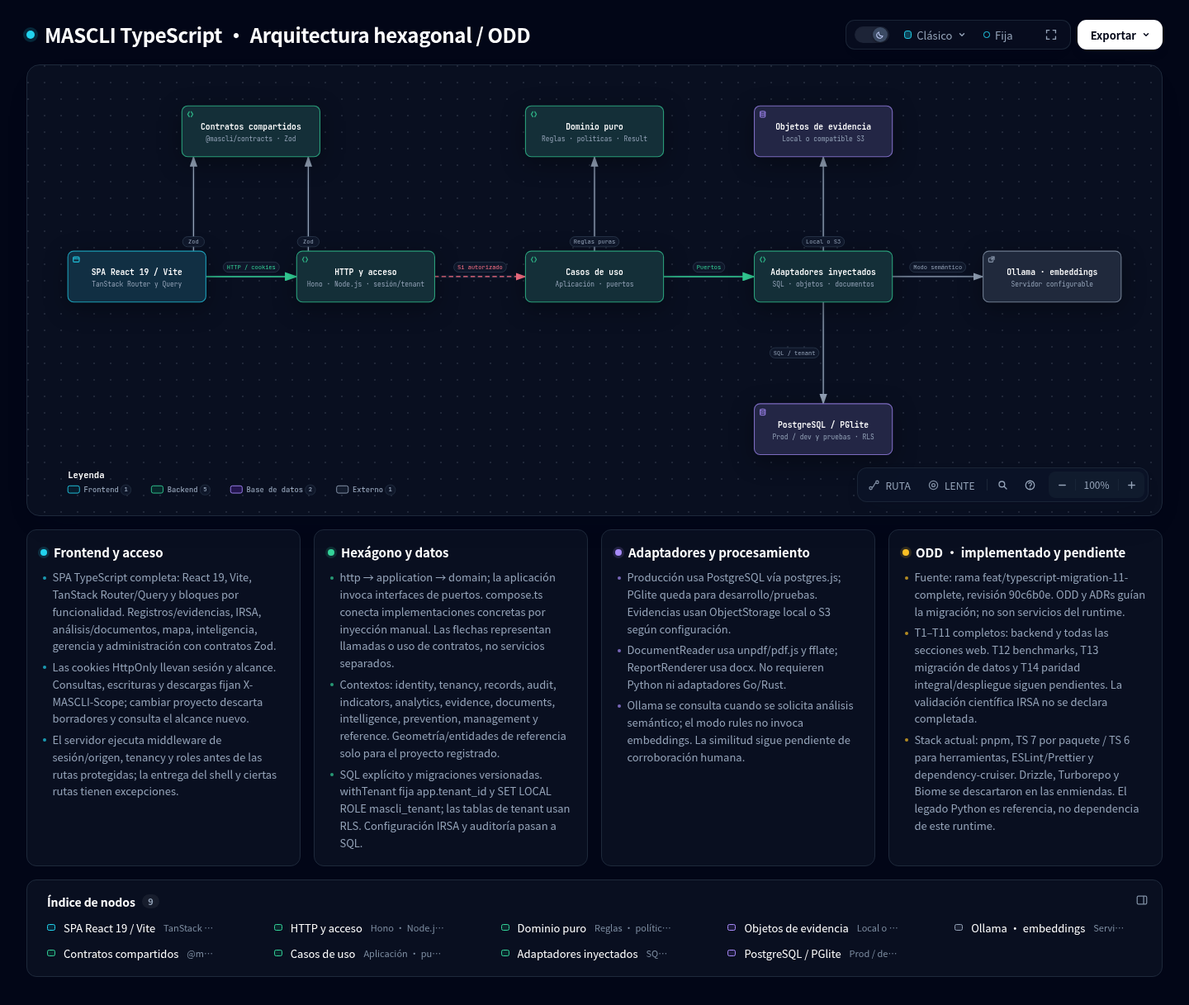
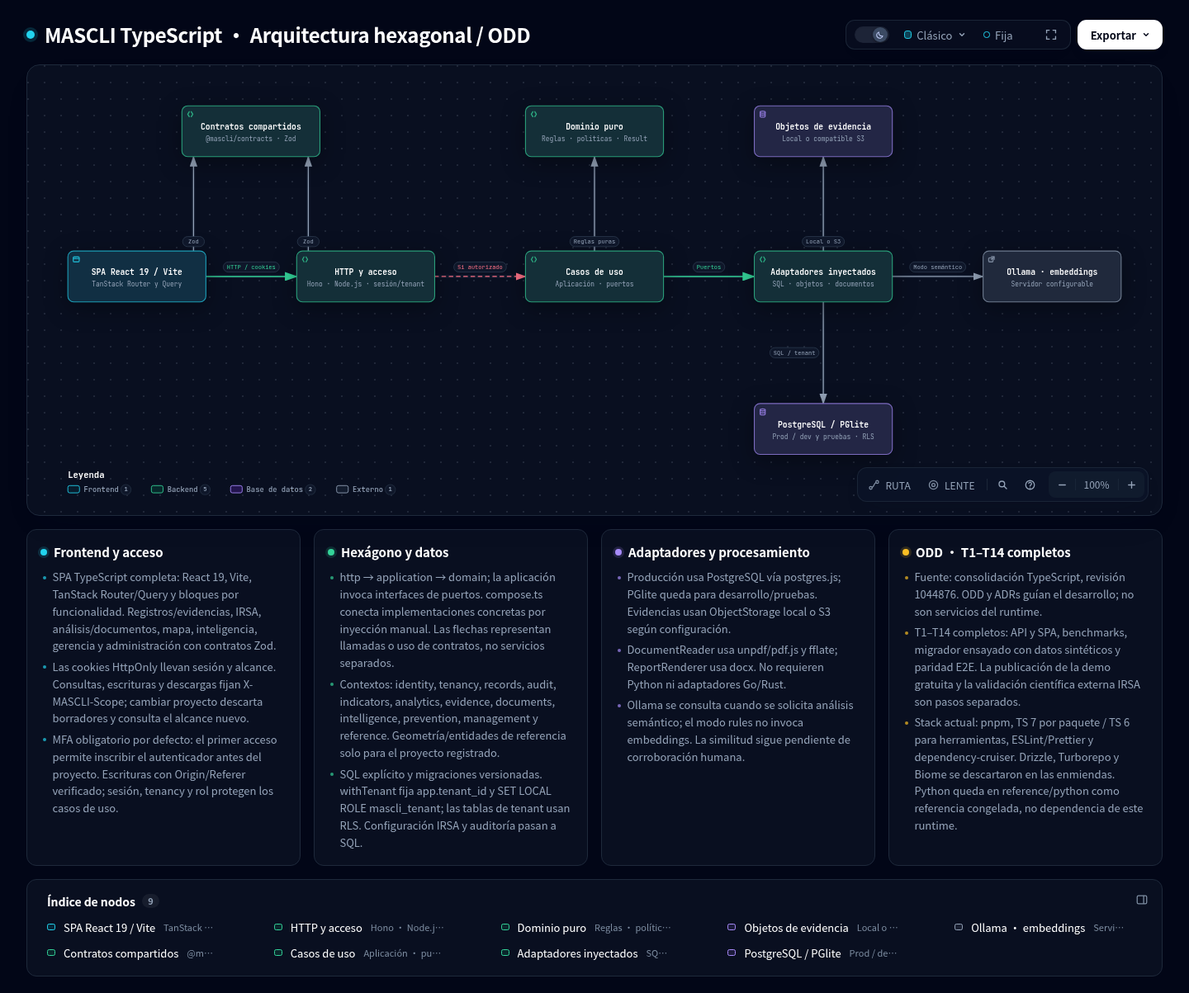
docs: refresh Archify for integrated T14 and strengthen MFA login evidence

diff --git a/docs/diagrams/arquitectura.html b/docs/diagrams/arquitectura.html
@@ -5154,7 +5154,7 @@ OTHER DEALINGS IN THE FONT SOFTWARE.
       </div>
     </div>
 
-    <script id="archify-source-evidence-data" type="application/json">{"schemaVersion":1,"verified":true,"repository":{"url":"https://github.com/Dreamcoder08/mascli","revision":"90c6b0e6b547eb837e70dcf01d9998ae86707d4c","shortRevision":"90c6b0e","label":"Dreamcoder08/mascli","href":"https://github.com/Dreamcoder08/mascli/tree/90c6b0e6b547eb837e70dcf01d9998ae86707d4c"},"referenceCount":26,"nodes":{"web":[{"path":"apps/web/src/app/router.tsx","line":264,"endLine":292,"label":"Rutas y composición de todas las funciones","href":"https://github.com/Dreamcoder08/mascli/blob/90c6b0e6b547eb837e70dcf01d9998ae86707d4c/apps/web/src/app/router.tsx#L264-L292"},{"path":"apps/web/src/shared/api/client.ts","line":52,"endLine":82,"label":"HTTP fijado al alcance y Zod","href":"https://github.com/Dreamcoder08/mascli/blob/90c6b0e6b547eb837e70dcf01d9998ae86707d4c/apps/web/src/shared/api/client.ts#L52-L82"},{"path":"apps/web/src/features/analysis/DocumentLab.tsx","line":24,"endLine":90,"label":"Documentos y revisión fijados al proyecto","href":"https://github.com/Dreamcoder08/mascli/blob/90c6b0e6b547eb837e70dcf01d9998ae86707d4c/apps/web/src/features/analysis/DocumentLab.tsx#L24-L90"}],"contracts":[{"path":"packages/contracts/src/identity.ts","line":1,"endLine":51,"label":"Esquemas y tipos inferidos","href":"https://github.com/Dreamcoder08/mascli/blob/90c6b0e6b547eb837e70dcf01d9998ae86707d4c/packages/contracts/src/identity.ts#L1-L51"},{"path":"apps/web/src/features/tenancy/api.ts","line":1,"endLine":25,"label":"Contratos en la SPA","href":"https://github.com/Dreamcoder08/mascli/blob/90c6b0e6b547eb837e70dcf01d9998ae86707d4c/apps/web/src/features/tenancy/api.ts#L1-L25"},{"path":"apps/api/src/contexts/records/http/records-routes.ts","line":1,"endLine":30,"label":"Contratos en HTTP","href":"https://github.com/Dreamcoder08/mascli/blob/90c6b0e6b547eb837e70dcf01d9998ae86707d4c/apps/api/src/contexts/records/http/records-routes.ts#L1-L30"}],"api":[{"path":"apps/api/src/app.ts","line":44,"endLine":64,"label":"Middleware y rutas","href":"https://github.com/Dreamcoder08/mascli/blob/90c6b0e6b547eb837e70dcf01d9998ae86707d4c/apps/api/src/app.ts#L44-L64"},{"path":"apps/api/src/contexts/identity/http/auth-middleware.ts","line":21,"endLine":52,"label":"Sesión, origen y rol","href":"https://github.com/Dreamcoder08/mascli/blob/90c6b0e6b547eb837e70dcf01d9998ae86707d4c/apps/api/src/contexts/identity/http/auth-middleware.ts#L21-L52"},{"path":"apps/api/src/contexts/tenancy/http/tenancy-middleware.ts","line":28,"endLine":77,"label":"Alcance autorizado","href":"https://github.com/Dreamcoder08/mascli/blob/90c6b0e6b547eb837e70dcf01d9998ae86707d4c/apps/api/src/contexts/tenancy/http/tenancy-middleware.ts#L28-L77"}],"application":[{"path":"apps/api/src/contexts/records/application/records-service.ts","line":26,"endLine":79,"label":"Invocación de RecordStore","href":"https://github.com/Dreamcoder08/mascli/blob/90c6b0e6b547eb837e70dcf01d9998ae86707d4c/apps/api/src/contexts/records/application/records-service.ts#L26-L79"},{"path":"apps/api/src/contexts/indicators/application/indicators-service.ts","line":48,"endLine":75,"label":"Datos, configuración y dominio","href":"https://github.com/Dreamcoder08/mascli/blob/90c6b0e6b547eb837e70dcf01d9998ae86707d4c/apps/api/src/contexts/indicators/application/indicators-service.ts#L48-L75"},{"path":"apps/api/src/contexts/intelligence/application/intelligence-service.ts","line":57,"endLine":137,"label":"EmbeddingProvider según modo","href":"https://github.com/Dreamcoder08/mascli/blob/90c6b0e6b547eb837e70dcf01d9998ae86707d4c/apps/api/src/contexts/intelligence/application/intelligence-service.ts#L57-L137"}],"domain":[{"path":"apps/api/src/contexts/records/domain/modules.ts","line":1,"endLine":48,"label":"Modelo territorial","href":"https://github.com/Dreamcoder08/mascli/blob/90c6b0e6b547eb837e70dcf01d9998ae86707d4c/apps/api/src/contexts/records/domain/modules.ts#L1-L48"},{"path":"packages/kernel/src/result.ts","line":1,"endLine":16,"label":"Result compartido","href":"https://github.com/Dreamcoder08/mascli/blob/90c6b0e6b547eb837e70dcf01d9998ae86707d4c/packages/kernel/src/result.ts#L1-L16"},{"path":".dependency-cruiser.cjs","line":16,"endLine":44,"label":"Reglas de dependencia","href":"https://github.com/Dreamcoder08/mascli/blob/90c6b0e6b547eb837e70dcf01d9998ae86707d4c/.dependency-cruiser.cjs#L16-L44"}],"adapters":[{"path":"apps/api/src/compose.ts","line":94,"endLine":170,"label":"Composición manual","href":"https://github.com/Dreamcoder08/mascli/blob/90c6b0e6b547eb837e70dcf01d9998ae86707d4c/apps/api/src/compose.ts#L94-L170"},{"path":"apps/api/src/contexts/records/infrastructure/sql-record-store.ts","line":19,"endLine":79,"label":"SQL y auditoría transaccional","href":"https://github.com/Dreamcoder08/mascli/blob/90c6b0e6b547eb837e70dcf01d9998ae86707d4c/apps/api/src/contexts/records/infrastructure/sql-record-store.ts#L19-L79"},{"path":"apps/api/src/contexts/documents/infrastructure/document-reader.ts","line":97,"endLine":129,"label":"Lectura PDF y DOCX","href":"https://github.com/Dreamcoder08/mascli/blob/90c6b0e6b547eb837e70dcf01d9998ae86707d4c/apps/api/src/contexts/documents/infrastructure/document-reader.ts#L97-L129"}],"storage":[{"path":"apps/api/src/contexts/evidence/infrastructure/index.ts","line":9,"endLine":18,"label":"Elección por configuración","href":"https://github.com/Dreamcoder08/mascli/blob/90c6b0e6b547eb837e70dcf01d9998ae86707d4c/apps/api/src/contexts/evidence/infrastructure/index.ts#L9-L18"},{"path":"apps/api/src/contexts/evidence/infrastructure/local-object-storage.ts","line":14,"endLine":45,"label":"Archivos locales","href":"https://github.com/Dreamcoder08/mascli/blob/90c6b0e6b547eb837e70dcf01d9998ae86707d4c/apps/api/src/contexts/evidence/infrastructure/local-object-storage.ts#L14-L45"},{"path":"apps/api/src/contexts/evidence/infrastructure/s3-object-storage.ts","line":25,"endLine":79,"label":"S3 firmado SigV4","href":"https://github.com/Dreamcoder08/mascli/blob/90c6b0e6b547eb837e70dcf01d9998ae86707d4c/apps/api/src/contexts/evidence/infrastructure/s3-object-storage.ts#L25-L79"}],"database":[{"path":"apps/api/src/main.ts","line":18,"endLine":30,"label":"Selección y migraciones","href":"https://github.com/Dreamcoder08/mascli/blob/90c6b0e6b547eb837e70dcf01d9998ae86707d4c/apps/api/src/main.ts#L18-L30"},{"path":"apps/api/src/platform/database/postgres.ts","line":16,"endLine":35,"label":"postgres.js y pool","href":"https://github.com/Dreamcoder08/mascli/blob/90c6b0e6b547eb837e70dcf01d9998ae86707d4c/apps/api/src/platform/database/postgres.ts#L16-L35"},{"path":"apps/api/src/platform/database/tenant-transaction.ts","line":3,"endLine":21,"label":"Tenant y rol en transacción","href":"https://github.com/Dreamcoder08/mascli/blob/90c6b0e6b547eb837e70dcf01d9998ae86707d4c/apps/api/src/platform/database/tenant-transaction.ts#L3-L21"}],"ollama":[{"path":"apps/api/src/contexts/intelligence/infrastructure/ollama-embeddings.ts","line":7,"endLine":45,"label":"POST /api/embed","href":"https://github.com/Dreamcoder08/mascli/blob/90c6b0e6b547eb837e70dcf01d9998ae86707d4c/apps/api/src/contexts/intelligence/infrastructure/ollama-embeddings.ts#L7-L45"},{"path":"apps/api/src/platform/config.ts","line":116,"endLine":127,"label":"URL y modelo","href":"https://github.com/Dreamcoder08/mascli/blob/90c6b0e6b547eb837e70dcf01d9998ae86707d4c/apps/api/src/platform/config.ts#L116-L127"}]}}</script>
+    <script id="archify-source-evidence-data" type="application/json">{"schemaVersion":1,"verified":true,"repository":{"url":"https://github.com/Dreamcoder08/mascli","revision":"1044876089eb8f3f8beef3c5e5338c0183edd44c","shortRevision":"1044876","label":"Dreamcoder08/mascli","href":"https://github.com/Dreamcoder08/mascli/tree/1044876089eb8f3f8beef3c5e5338c0183edd44c"},"referenceCount":26,"nodes":{"web":[{"path":"apps/web/src/app/router.tsx","line":316,"endLine":329,"label":"Rutas y composición de todas las funciones","href":"https://github.com/Dreamcoder08/mascli/blob/1044876089eb8f3f8beef3c5e5338c0183edd44c/apps/web/src/app/router.tsx#L316-L329"},{"path":"apps/web/src/shared/api/client.ts","line":52,"endLine":88,"label":"HTTP fijado al alcance y Zod","href":"https://github.com/Dreamcoder08/mascli/blob/1044876089eb8f3f8beef3c5e5338c0183edd44c/apps/web/src/shared/api/client.ts#L52-L88"},{"path":"apps/web/src/features/auth/MfaEnrollmentPage.tsx","line":14,"endLine":60,"label":"Alta MFA antes de seleccionar proyecto","href":"https://github.com/Dreamcoder08/mascli/blob/1044876089eb8f3f8beef3c5e5338c0183edd44c/apps/web/src/features/auth/MfaEnrollmentPage.tsx#L14-L60"}],"contracts":[{"path":"packages/contracts/src/identity.ts","line":1,"endLine":51,"label":"Esquemas y tipos inferidos","href":"https://github.com/Dreamcoder08/mascli/blob/1044876089eb8f3f8beef3c5e5338c0183edd44c/packages/contracts/src/identity.ts#L1-L51"},{"path":"apps/web/src/features/tenancy/api.ts","line":1,"endLine":25,"label":"Contratos en la SPA","href":"https://github.com/Dreamcoder08/mascli/blob/1044876089eb8f3f8beef3c5e5338c0183edd44c/apps/web/src/features/tenancy/api.ts#L1-L25"},{"path":"apps/api/src/contexts/records/http/records-routes.ts","line":1,"endLine":30,"label":"Contratos en HTTP","href":"https://github.com/Dreamcoder08/mascli/blob/1044876089eb8f3f8beef3c5e5338c0183edd44c/apps/api/src/contexts/records/http/records-routes.ts#L1-L30"}],"api":[{"path":"apps/api/src/app.ts","line":46,"endLine":68,"label":"Middleware y rutas","href":"https://github.com/Dreamcoder08/mascli/blob/1044876089eb8f3f8beef3c5e5338c0183edd44c/apps/api/src/app.ts#L46-L68"},{"path":"apps/api/src/contexts/identity/http/auth-middleware.ts","line":21,"endLine":65,"label":"Sesión, origen y rol","href":"https://github.com/Dreamcoder08/mascli/blob/1044876089eb8f3f8beef3c5e5338c0183edd44c/apps/api/src/contexts/identity/http/auth-middleware.ts#L21-L65"},{"path":"apps/api/src/contexts/tenancy/http/tenancy-middleware.ts","line":28,"endLine":77,"label":"Alcance autorizado","href":"https://github.com/Dreamcoder08/mascli/blob/1044876089eb8f3f8beef3c5e5338c0183edd44c/apps/api/src/contexts/tenancy/http/tenancy-middleware.ts#L28-L77"}],"application":[{"path":"apps/api/src/contexts/records/application/records-service.ts","line":26,"endLine":79,"label":"Invocación de RecordStore","href":"https://github.com/Dreamcoder08/mascli/blob/1044876089eb8f3f8beef3c5e5338c0183edd44c/apps/api/src/contexts/records/application/records-service.ts#L26-L79"},{"path":"apps/api/src/contexts/indicators/application/indicators-service.ts","line":48,"endLine":75,"label":"Datos, configuración y dominio","href":"https://github.com/Dreamcoder08/mascli/blob/1044876089eb8f3f8beef3c5e5338c0183edd44c/apps/api/src/contexts/indicators/application/indicators-service.ts#L48-L75"},{"path":"apps/api/src/contexts/intelligence/application/intelligence-service.ts","line":57,"endLine":137,"label":"EmbeddingProvider según modo","href":"https://github.com/Dreamcoder08/mascli/blob/1044876089eb8f3f8beef3c5e5338c0183edd44c/apps/api/src/contexts/intelligence/application/intelligence-service.ts#L57-L137"}],"domain":[{"path":"apps/api/src/contexts/records/domain/modules.ts","line":1,"endLine":48,"label":"Modelo territorial","href":"https://github.com/Dreamcoder08/mascli/blob/1044876089eb8f3f8beef3c5e5338c0183edd44c/apps/api/src/contexts/records/domain/modules.ts#L1-L48"},{"path":"packages/kernel/src/result.ts","line":1,"endLine":16,"label":"Result compartido","href":"https://github.com/Dreamcoder08/mascli/blob/1044876089eb8f3f8beef3c5e5338c0183edd44c/packages/kernel/src/result.ts#L1-L16"},{"path":".dependency-cruiser.cjs","line":16,"endLine":44,"label":"Reglas de dependencia","href":"https://github.com/Dreamcoder08/mascli/blob/1044876089eb8f3f8beef3c5e5338c0183edd44c/.dependency-cruiser.cjs#L16-L44"}],"adapters":[{"path":"apps/api/src/compose.ts","line":94,"endLine":170,"label":"Composición manual","href":"https://github.com/Dreamcoder08/mascli/blob/1044876089eb8f3f8beef3c5e5338c0183edd44c/apps/api/src/compose.ts#L94-L170"},{"path":"apps/api/src/contexts/records/infrastructure/sql-record-store.ts","line":19,"endLine":79,"label":"SQL y auditoría transaccional","href":"https://github.com/Dreamcoder08/mascli/blob/1044876089eb8f3f8beef3c5e5338c0183edd44c/apps/api/src/contexts/records/infrastructure/sql-record-store.ts#L19-L79"},{"path":"apps/api/src/contexts/documents/infrastructure/document-reader.ts","line":80,"endLine":112,"label":"Lectura PDF y DOCX","href":"https://github.com/Dreamcoder08/mascli/blob/1044876089eb8f3f8beef3c5e5338c0183edd44c/apps/api/src/contexts/documents/infrastructure/document-reader.ts#L80-L112"}],"storage":[{"path":"apps/api/src/contexts/evidence/infrastructure/index.ts","line":9,"endLine":18,"label":"Elección por configuración","href":"https://github.com/Dreamcoder08/mascli/blob/1044876089eb8f3f8beef3c5e5338c0183edd44c/apps/api/src/contexts/evidence/infrastructure/index.ts#L9-L18"},{"path":"apps/api/src/contexts/evidence/infrastructure/local-object-storage.ts","line":14,"endLine":45,"label":"Archivos locales","href":"https://github.com/Dreamcoder08/mascli/blob/1044876089eb8f3f8beef3c5e5338c0183edd44c/apps/api/src/contexts/evidence/infrastructure/local-object-storage.ts#L14-L45"},{"path":"apps/api/src/contexts/evidence/infrastructure/s3-object-storage.ts","line":25,"endLine":79,"label":"S3 firmado SigV4","href":"https://github.com/Dreamcoder08/mascli/blob/1044876089eb8f3f8beef3c5e5338c0183edd44c/apps/api/src/contexts/evidence/infrastructure/s3-object-storage.ts#L25-L79"}],"database":[{"path":"apps/api/src/main.ts","line":13,"endLine":35,"label":"Selección y migraciones","href":"https://github.com/Dreamcoder08/mascli/blob/1044876089eb8f3f8beef3c5e5338c0183edd44c/apps/api/src/main.ts#L13-L35"},{"path":"apps/api/src/platform/database/postgres.ts","line":16,"endLine":35,"label":"postgres.js y pool","href":"https://github.com/Dreamcoder08/mascli/blob/1044876089eb8f3f8beef3c5e5338c0183edd44c/apps/api/src/platform/database/postgres.ts#L16-L35"},{"path":"apps/api/src/platform/database/tenant-transaction.ts","line":3,"endLine":21,"label":"Tenant y rol en transacción","href":"https://github.com/Dreamcoder08/mascli/blob/1044876089eb8f3f8beef3c5e5338c0183edd44c/apps/api/src/platform/database/tenant-transaction.ts#L3-L21"}],"ollama":[{"path":"apps/api/src/contexts/intelligence/infrastructure/ollama-embeddings.ts","line":7,"endLine":45,"label":"POST /api/embed","href":"https://github.com/Dreamcoder08/mascli/blob/1044876089eb8f3f8beef3c5e5338c0183edd44c/apps/api/src/contexts/intelligence/infrastructure/ollama-embeddings.ts#L7-L45"},{"path":"apps/api/src/platform/config.ts","line":121,"endLine":132,"label":"URL y modelo","href":"https://github.com/Dreamcoder08/mascli/blob/1044876089eb8f3f8beef3c5e5338c0183edd44c/apps/api/src/platform/config.ts#L121-L132"}]}}</script>
     <script id="archify-i18n-data" type="application/json">{"locale":"es","messages":{"viewer.kind.frontend":"Frontend","viewer.kind.backend":"Backend","viewer.kind.database":"Base de datos","viewer.kind.cloud":"Nube","viewer.kind.security":"Seguridad","viewer.kind.messagebus":"Bus de mensajes","viewer.kind.external":"Externo","viewer.kind.neutral":"Neutral","viewer.kind.node":"Nodo","viewer.kind.start":"Inicio","viewer.kind.active":"Activo","viewer.kind.waiting":"En espera","viewer.kind.decision":"Decisión","viewer.kind.success":"Éxito","viewer.kind.failure":"Fallo","viewer.toolbar.actions":"Acciones del diagrama","viewer.theme.toggle.title":"Cambiar tema (T)","viewer.theme.toggle":"Cambiar tema de color","viewer.theme.dark":"Oscuro","viewer.theme.light":"Claro","viewer.preset.choose.title":"Elegir estilo visual (S alterna)","viewer.preset.choose":"Elegir estilo visual","viewer.preset.style":"Estilo","viewer.preset.menu":"Estilo visual","viewer.preset.identity":"Identidad visual","viewer.preset.cycles":"alterna","viewer.preset.classic":"Clásico","viewer.preset.classic.short":"Clásico","viewer.preset.classic.hint":"Predeterminado técnico estable","viewer.preset.flow":"Flujo de señal","viewer.preset.flow.short":"Flujo","viewer.preset.flow.hint":"Presentación con énfasis en el movimiento","viewer.preset.blueprint":"Plano","viewer.preset.blueprint.hint":"Revisión de ingeniería","viewer.preset.editorial":"Editorial","viewer.preset.editorial.hint":"Notas de publicación y lanzamiento","viewer.preset.badge.signalFlow":"FLUJO DE SEÑAL","viewer.preset.badge.blueprint":"PLANO / REV 01","viewer.preset.badge.editorial":"EDITORIAL / NOTA DE CAMPO","viewer.preset.badge.editorialPlate":"ARCHIFY / LÁMINA 04","viewer.preset.current":"Estilo visual: {style}. Elegir estilo visual","viewer.motion.live":"Activa","viewer.motion.still":"Fija","viewer.motion.pause":"Pausar animación","viewer.motion.resume":"Reanudar animación","viewer.motion.reduced":"Animación pausada por la preferencia de movimiento reducido","viewer.motion.hidden":"Animación pausada mientras esta página está oculta","viewer.motion.yielding":"Pausar animación; cediendo a {owner}","viewer.motion.yielding.title":"Vista previa en vivo activada · cediendo a {owner}","viewer.owner.route":"Sonda de ruta","viewer.owner.lens":"Lente semántico","viewer.owner.relationship":"Vista previa de relación","viewer.owner.intent":"Traza de intención","viewer.owner.focus":"enfoque semántico","viewer.owner.legend":"vista previa de la leyenda","viewer.owner.reader":"interacción del lector","viewer.present.enter":"Entrar al modo presentación","viewer.present.enter.title":"Modo presentación (F)","viewer.present.exit":"Salir del modo presentación","viewer.present.exit.title":"Salir del modo presentación (F o Escape)","viewer.present.present":"Presentar","viewer.present.exit.label":"Salir","viewer.export.button":"Exportar","viewer.export.button.title":"Exportar diagrama (E)","viewer.export.diagram":"Exportar diagrama","viewer.export.menu":"Exportar","viewer.export.subtitle":"Salidas portables y limpias","viewer.export.share":"Compartir","viewer.export.shareCard":"Tarjeta para compartir","viewer.export.routeShareCard":"Tarjeta de ruta para compartir","viewer.export.reachShareCard":"Tarjeta de alcance para compartir","viewer.export.copyDiagram":"Copiar diagrama","viewer.export.clipboardPng":"PNG al portapapeles","viewer.export.raster":"Imágenes rasterizadas","viewer.export.image":"Imagen","viewer.export.lossless":"Imagen sin pérdida","viewer.export.compact":"Imagen compacta","viewer.export.modern":"Imagen moderna","viewer.export.vectorMotion":"Vector y movimiento","viewer.export.vectorMotion.heading":"Vector y movimiento","viewer.export.editable":"Vector editable","viewer.export.svg.auto":"SVG · Auto","viewer.export.svg.auto.hint":"Coincide con el tema del host","viewer.export.svg.light":"SVG · Claro","viewer.export.svg.light.hint":"Siempre claro","viewer.export.svg.dark":"SVG · Oscuro","viewer.export.svg.dark.hint":"Siempre oscuro","viewer.export.motion6s":"Movimiento de 6 s","viewer.export.unsupported":"No compatible con este navegador","viewer.export.clipboardUnsupported":"Este navegador no admite escribir imágenes en el portapapeles","viewer.export.clipboardUnsupported.short":"Escritura de imágenes en el portapapeles no admitida en este navegador.","viewer.export.motionUnavailable":"Captura de movimiento no disponible en este navegador","viewer.export.webmUnavailable":"WebM no disponible en este navegador","viewer.export.failed":"Falló la exportación: {message}","viewer.export.unknownVariant":"Variante de tarjeta para compartir desconocida: {variant}","viewer.export.routeRequired":"Traza una ruta antes de exportar una tarjeta de ruta para compartir","viewer.export.reachRequired":"Traza el alcance definido antes de exportar una tarjeta de alcance para compartir","viewer.export.unknown":"desconocido","viewer.export.routeFailed":"Falló la exportación de la tarjeta de ruta para compartir: {message}","viewer.export.reachFailed":"Falló la exportación de la tarjeta de alcance para compartir: {message}","viewer.export.copyFailed":"Error al copiar: {message}","viewer.export.copiedPng":"PNG copiado al portapapeles","viewer.export.downloadedRoute":"Tarjeta de ruta para compartir descargada","viewer.export.downloadedReach":"Tarjeta de alcance para compartir descargada","viewer.export.downloadedWebm":"WebM descargado","viewer.export.recording":"Grabando 6 segundos de movimiento…","viewer.export.card.routeSummary.one":"Ruta: {source} → {target} · {count} paso","viewer.export.card.routeSummary.other":"Ruta: {source} → {target} · {count} pasos","viewer.export.card.reachSummary":"Alcance definido {direction} desde {origin} · {nodes} · {links} · máx {hops}","viewer.export.card.node.one":"{count} nodo","viewer.export.card.node.other":"{count} nodos","viewer.export.card.link.one":"{count} enlace","viewer.export.card.link.other":"{count} enlaces","viewer.export.card.hop.one":"{count} salto","viewer.export.card.hop.other":"{count} saltos","viewer.export.card.routeBadge":"ARCHIFY · RUTA · {hops}","viewer.export.card.reachBadge":"ARCHIFY · ALCANCE {direction}","viewer.export.direction.upstream":"Ascendente","viewer.export.direction.downstream":"Descendente","viewer.export.error.canvasUnavailable":"Lienzo no disponible para {label}","viewer.export.error.contextUnavailable":"Contexto de lienzo 2D no disponible para {label}","viewer.export.error.toBlobUnavailable":"canvas.toBlob no disponible para {label}","viewer.export.error.toBlobNull":"canvas.toBlob no devolvió datos para {label}","viewer.export.error.variantsCombined":"Las variantes de tarjeta para compartir no se pueden combinar","viewer.export.error.viewerState":"La exportación de la tarjeta para compartir no pudo quitar el estado temporal del visor","viewer.export.error.routeState":"La exportación de la tarjeta de ruta no pudo preservar la ruta resuelta de forma segura","viewer.export.error.reachState":"La exportación de la tarjeta de alcance no pudo preservar el alcance definido de forma segura","viewer.export.error.webmRequirements":"La exportación de movimiento WebM requiere una animación de traza y compatibilidad del navegador con MediaRecorder","viewer.export.error.mediaRecorder":"MediaRecorder falló","viewer.export.error.emptyWebm":"MediaRecorder produjo un WebM vacío","viewer.export.error.webmBackground":"No se pudo cargar el fondo SVG para la exportación WebM","viewer.guide.title":"Explorar este sistema","viewer.focus.selectedNodes":"{count} nodos seleccionados","viewer.guide.eyebrow":"Guía del diagrama","viewer.guide.close":"Cerrar la guía del diagrama","viewer.guide.inspecting":"Inspeccionando la semántica compilada","viewer.guide.actions":"Acciones de exploración del diagrama","viewer.guide.find":"Buscar cualquier nodo","viewer.guide.find.hint":"Busca por etiquetas, responsabilidades, tipos e IDs estables.","viewer.guide.route":"Trazar una ruta","viewer.guide.route.aria":"Trazar una ruta dirigida","viewer.guide.route.hint":"Pregunta cómo se conectan dos nodos semánticos en el sentido definido.","viewer.guide.map":"Ver todo el sistema","viewer.guide.map.hint":"Abre el Radar semántico con un viewport en vivo y nodos estables.","viewer.guide.lens":"Comparar tipos semánticos","viewer.guide.lens.hint":"Cuenta roles, revela su tráfico y compara enlaces directos definidos.","viewer.guide.present":"Entrar al modo presentación","viewer.guide.present.hint":"Dale al diagrama en vivo todo el viewport sin cambiar la exportación.","viewer.guide.shortcuts":"Atajos de teclado adicionales","viewer.guide.shortcut.export":"Exportar","viewer.guide.shortcut.theme":"Tema","viewer.guide.shortcut.style":"Estilo","viewer.guide.shortcut.reset":"Restablecer","viewer.guide.shortcut.zoomIn":"Acercar","viewer.guide.shortcut.zoomOut":"Alejar","viewer.guide.shortcut.close":"Cerrar","viewer.guide.credit":"¿Te resulta útil Archify? Una estrella en GitHub ayuda","viewer.guide.star":"Star","viewer.guide.facts":"{nodes} · {relationships}","viewer.guide.fact.node.one":"{count} nodo semántico","viewer.guide.fact.node.other":"{count} nodos semánticos","viewer.guide.fact.relationship.one":"{count} relación","viewer.guide.fact.relationship.other":"{count} relaciones","viewer.guide.open":"Abrir la guía del diagrama","viewer.finder.title":"Buscar un nodo","viewer.finder.close":"Cerrar el buscador de nodos","viewer.finder.placeholder":"Buscar etiquetas o IDs","viewer.finder.search":"Buscar nodos del diagrama","viewer.finder.results":"Nodos del diagrama","viewer.finder.empty":"No hay nodos coincidentes","viewer.finder.result.focus":"Enfocar {label}","viewer.finder.result.routeStart":"Elegir {label} como inicio de la ruta","viewer.finder.result.routeTarget":"Elegir {label} como destino de la ruta, {links}","viewer.finder.status.empty":"No hay nodos coincidentes","viewer.finder.status.count.one":"{count} nodo coincidente","viewer.finder.status.count.other":"{count} nodos coincidentes","viewer.finder.noun.nodes":"nodos","viewer.finder.link.one":"{count} enlace","viewer.finder.link.other":"{count} enlaces","viewer.finder.result.focus.one":"Enfocar {label}, {count} conexión relacionada","viewer.finder.result.focus.other":"Enfocar {label}, {count} conexiones relacionadas","viewer.finder.status.filtered":"{visible} de {available} {noun}","viewer.finder.status.all":"{available} {noun}","viewer.passport.eyebrow":"Pasaporte semántico","viewer.passport.metadata":"Metadatos del nodo","viewer.passport.evidence":"Evidencia de fuente verificada","viewer.passport.verified":"Fuente verificada","viewer.passport.verificationScope":"Verificado contra el Git local en la revisión fijada. No se ha comprobado el acceso remoto.","viewer.passport.reach":"Alcance definido","viewer.passport.reach.trace":"Trazar la alcanzabilidad definida","viewer.passport.upstream":"Ascendente","viewer.passport.downstream":"Descendente","viewer.passport.upstream.trace":"Trazar la alcanzabilidad definida ascendente","viewer.passport.downstream.trace":"Trazar la alcanzabilidad definida descendente","viewer.passport.close":"Cerrar el pasaporte semántico","viewer.passport.move":"Mover el pasaporte semántico. Arrastra, usa las flechas o pulsa Inicio para restablecer.","viewer.passport.copy":"Copiar enlace","viewer.passport.copy.focus":"Copiar enlace al nodo enfocado","viewer.passport.relations":"Relaciones","viewer.passport.relations.show":"Mostrar relaciones conectadas","viewer.passport.relations.hide":"Ocultar relaciones conectadas","viewer.passport.relations.list":"Relaciones conectadas","viewer.passport.copyRelation":"Copiar relación","viewer.passport.copyNode":"Copiar nodo","viewer.passport.copyPinned":"Copiar enlace a la relación fijada","viewer.passport.copySource":"Copiar enlace al nodo de origen","viewer.passport.copy.focused.success":"Enlace del nodo enfocado copiado","viewer.passport.copy.pinned.success":"Enlace de la relación fijada copiado","viewer.passport.copy.focused.failed":"No se pudo copiar el enlace del nodo enfocado","viewer.passport.copy.pinned.failed":"No se pudo copiar el enlace de la relación fijada","viewer.passport.relationship.none":"No hay relaciones conectadas","viewer.passport.relationship.count.one":"{count} relación","viewer.passport.relationship.count.other":"{count} relaciones","viewer.passport.relationship.show.one":"Mostrar {count} relación conectada","viewer.passport.relationship.show.other":"Mostrar {count} relaciones conectadas","viewer.passport.relationship.summary":"{out} salientes · {in} entrantes{loops}","viewer.passport.relationship.loops":" · {count} bucle","viewer.passport.relationship.explorer":"Explorador de relaciones directas","viewer.passport.relationship.help":"Usa las flechas para explorar las relaciones. Pulsa Enter o Espacio para fijar detalles; Escape las borra.","viewer.passport.relationship.loopsBack":"vuelve sobre sí mismo","viewer.passport.relationship.connectsTo":"conecta a","viewer.passport.relationship.connectsFrom":"conecta desde","viewer.passport.relationship.pinned":"Relación fijada · {from} → {to} · {label}","viewer.passport.relationship.inspect":"Inspeccionar relación {index} de {total}: {from} a {to}, {label}. Pulsa Enter para ver detalles.","viewer.passport.relationship.group.out":"Salientes","viewer.passport.relationship.group.in":"Entrantes","viewer.passport.relationship.group.loop":"Bucles propios","viewer.passport.relationship.row":"{group}: {relationship}, {neighbor}","viewer.passport.relationship.direction.out":"SAL →","viewer.passport.relationship.direction.in":"← ENT","viewer.passport.relationship.direction.loop":"BUCLE","viewer.passport.sourceCount.one":"{count} referencia de fuente verificada","viewer.passport.sourceCount.other":"{count} referencias de fuente verificadas","viewer.passport.repository.open":"Abrir la revisión verificada del repositorio {revision}","viewer.passport.source.open":"Abrir la fuente verificada {path} en la revisión {revision}","viewer.passport.source.openLink":"Abrir ↗","viewer.passport.reach.upstream.one":"Trazar {count} nodo definido ascendente","viewer.passport.reach.upstream.other":"Trazar {count} nodos definidos ascendentes","viewer.passport.reach.downstream.one":"Trazar {count} nodo definido descendente","viewer.passport.reach.downstream.other":"Trazar {count} nodos definidos descendentes","viewer.passport.reach.noUpstream":"No hay nodos definidos ascendentes","viewer.passport.reach.noDownstream":"No hay nodos definidos descendentes","viewer.passport.reach.status":"{direction} · {nodes} nodos · {links} enlaces · máx {hops} saltos","viewer.route.eyebrow":"Ruta","viewer.route.start":"Haz clic donde empieza la ruta","viewer.route.start.find":"Buscar inicio","viewer.route.start.find.aria":"Buscar un inicio de ruta","viewer.route.copy":"Copiar enlace","viewer.route.copy.aria":"Copiar enlace a la ruta trazada","viewer.route.clear":"Borrar","viewer.route.clear.aria":"Borrar la sonda de ruta","viewer.route.traced":"Ruta","viewer.route.pickTwo":"Haz clic en dos nodos del diagrama","viewer.route.pickOne":"Haz clic en un nodo del diagrama","viewer.route.controls":"Controles del recorrido de la ruta","viewer.route.previous":"Posición anterior de la ruta","viewer.route.play":"Reproducir el recorrido de la ruta","viewer.route.pause":"Pausar el recorrido de la ruta","viewer.route.replay":"Repetir el recorrido de la ruta","viewer.route.next":"Posición siguiente de la ruta","viewer.route.journey":"Recorrido","viewer.route.pause.label":"Pausar","viewer.route.replay.label":"Repetir","viewer.route.overview":"Vista general","viewer.route.overview.aria":"Mostrar la vista general completa de la ruta","viewer.route.instructions":"Haz clic en un inicio y luego en un final. La ruta sigue las flechas.","viewer.route.destination":"¿Dónde termina la ruta desde {label}?","viewer.route.destination.find":"Buscar destino","viewer.route.destination.find.aria":"Buscar un destino de ruta alcanzable","viewer.route.differentDestination":"Elige un destino diferente","viewer.route.distinct":"Elige dos nodos distintos.","viewer.route.unreachable":"No se llega a {label} desde aquí","viewer.route.unreachable.detail":"No se llega a {target} desde {source} siguiendo las flechas. Elige un nodo resaltado.","viewer.route.start.instructions":"Luego elige el final. Solo se iluminan los nodos alcanzables.","viewer.route.copy.success":"Enlace de la ruta trazada copiado","viewer.route.copy.failed":"No se pudo copiar el enlace de la ruta trazada","viewer.route.position":"Posición de la ruta {index} de {total}: {label}","viewer.route.step":"Paso {index} de {total} · {phase} · {label}","viewer.route.motionRequired":"El recorrido automático requiere la animación Activa","viewer.route.trigger.clear":"Borrar la ruta trazada","viewer.route.overview.status":"{nodes} · {hops} · ruta más corta","viewer.route.overview.node.one":"{count} nodo","viewer.route.overview.node.other":"{count} nodos","viewer.route.overview.hop.one":"{count} paso","viewer.route.overview.hop.other":"{count} pasos","viewer.route.phase.playing":"Reproduciendo","viewer.route.phase.complete":"Completo","viewer.route.phase.inspecting":"Inspeccionando","viewer.route.destination.count.one":"{count} nodo alcanzable está resaltado. Haz clic en él.","viewer.route.destination.count.other":"{count} nodos alcanzables están resaltados. Haz clic en uno.","viewer.route.noOutgoing":"Ninguna flecha sale de este nodo. Bórralo y elige otro inicio.","viewer.route.result.title":"{source} a {target}","viewer.route.finder.source.title":"Elegir el inicio de la ruta","viewer.route.finder.source.placeholder":"Buscar orígenes de ruta","viewer.route.finder.source.empty":"No hay orígenes de ruta coincidentes","viewer.route.finder.source.results":"Nodos que pueden iniciar una ruta","viewer.route.finder.source.noun":"orígenes de ruta","viewer.route.finder.source.badge":"inicio","viewer.route.finder.target.title":"Destino desde {label}","viewer.route.finder.target.placeholder":"Buscar destinos alcanzables","viewer.route.finder.target.empty":"No hay destinos alcanzables coincidentes","viewer.route.finder.target.results":"Destinos de ruta alcanzables","viewer.route.finder.target.noun":"destinos alcanzables","viewer.route.hop.one":"{count} salto","viewer.route.hop.other":"{count} saltos","viewer.lens.eyebrow":"Lente semántico","viewer.lens.title":"Comparar roles del sistema","viewer.lens.close":"Cerrar el lente semántico","viewer.lens.instruction":"Elige hasta dos tipos semánticos. Uno revela su tráfico real; dos comparan solo las relaciones directas definidas.","viewer.lens.kinds":"Tipos semánticos","viewer.lens.choose":"Elige un tipo para inspeccionar sus nodos y las relaciones que lo tocan.","viewer.lens.copy":"Copiar enlace al lente semántico","viewer.lens.clear":"Borrar el lente semántico","viewer.lens.open":"Abrir el lente semántico","viewer.lens.openActive":"Abrir el lente semántico activo","viewer.lens.legend":"Leyenda semántica","viewer.lens.legend.inspect.one":"Inspeccionar {label}, {count} nodo","viewer.lens.legend.inspect.other":"Inspeccionar {label}, {count} nodos","viewer.lens.kind.count.one":"{label}, {count} nodo","viewer.lens.kind.count.other":"{label}, {count} nodos","viewer.lens.compare.one":"{first} → {second}: {forward} · {second} → {first}: {reverse} · {count} relación directa","viewer.lens.compare.other":"{first} → {second}: {forward} · {second} → {first}: {reverse} · {count} relaciones directas","viewer.lens.single":"{nodes} · {relationships} · los pares conectados permanecen visibles","viewer.lens.node.one":"{count} nodo {label}","viewer.lens.node.other":"{count} nodos {label}","viewer.lens.relationship.one":"{count} relación en contacto","viewer.lens.relationship.other":"{count} relaciones en contacto","viewer.radar.title":"Radar semántico","viewer.radar.building":"Construyendo la vista general","viewer.radar.openFull":"Abrir el radar semántico completo","viewer.radar.open":"Abrir el radar","viewer.radar.close":"Cerrar el radar semántico","viewer.radar.surface":"Vista general del diagrama. Haz clic en un nodo para enfocarlo, o usa las flechas para desplazarte.","viewer.radar.click":"Clic en el nodo","viewer.radar.drag":"Arrastra para desplazar","viewer.radar.space":"El radar semántico necesita más espacio de MAPA.","viewer.radar.nodes":"Nodos del radar del diagrama semántico","viewer.radar.focus":"Enfocar {label} desde el Radar semántico","viewer.radar.status":"{count} nodos · {viewport}","viewer.radar.fullMap":"{count} nodos · mapa completo","viewer.radar.compacted":"Radar compactado para no tapar el Pasaporte semántico ni los controles de MAPA.","viewer.radar.cancelWaiting":"Cancelar la espera del radar semántico por más espacio de MAPA","viewer.radar.needsSpace":"El radar semántico necesita más espacio de MAPA visible","viewer.radar.viewport.full":"mapa completo","viewer.radar.viewport.width":"{percent}% de ancho","viewer.radar.viewport.scale":"{percent}% del viewport","viewer.nav.controls":"Controles de vista del diagrama","viewer.nav.route":"Trazar una ruta dirigida","viewer.nav.route.title":"Trazar ruta (R)","viewer.nav.route.short":"RUTA","viewer.nav.radar":"Abrir el radar semántico","viewer.nav.radar.title":"Radar semántico (M)","viewer.nav.radar.short":"MAPA","viewer.nav.lens":"Abrir el lente semántico","viewer.nav.lens.title":"Lente semántico (L)","viewer.nav.lens.short":"LENTE","viewer.nav.find":"Buscar un nodo","viewer.nav.find.title":"Buscar un nodo (/)","viewer.outline.title":"Índice de nodos","viewer.rail.show":"Notas e índice","viewer.rail.controls":"Panel lateral","viewer.rail.collapse":"Contraer panel lateral","viewer.rail.bottom":"Mover el panel debajo","viewer.rail.right":"Mover el panel al lado","viewer.nav.guide":"Abrir la guía del diagrama","viewer.nav.guide.title":"Guía del diagrama (?)","viewer.nav.zoomOut":"Alejar","viewer.nav.zoomOut.title":"Alejar (-)","viewer.nav.reset":"Restablecer la vista del diagrama","viewer.nav.reset.title":"Restablecer vista (0)","viewer.nav.read":"LEER","viewer.nav.zoomIn":"Acercar","viewer.nav.zoomIn.title":"Acercar (+)","viewer.nav.camera":"{hint}. Restablecer la vista del diagrama","viewer.nav.camera.title":"{semantic}{hint} · restablecer vista (0)","viewer.nav.camera.semantic":"Cámara semántica activa · ","viewer.nav.level.map":"MAPA","viewer.nav.level.read":"LEER","viewer.nav.level.full":"COMPLETO","viewer.nav.level.auto":"AUTO","viewer.nav.detail.map":"Acerca para revelar las etiquetas de relación y el contexto de los nodos","viewer.nav.detail.read":"Acerca de nuevo para revelar etiquetas y anotaciones","viewer.nav.detail.full":"Detalle completo del diagrama","viewer.intent.summary":"{label}. {out} salientes, {in} entrantes{loops}. {total} conexiones. Pulsa Enter para ver detalles.","viewer.intent.loops":", {count} bucle propio","viewer.common.copied":"Copiado","viewer.common.copyFailed":"Error al copiar","viewer.common.copyLink":"Copiar enlace","viewer.common.clear":"Borrar","viewer.common.close":"Cerrar"}}</script>
     <!-- Main Diagram -->
     <div class="diagram-container" data-detail-level="read"
@@ -5599,7 +5599,7 @@ OTHER DEALINGS IN THE FONT SOFTWARE.
         <ul>
           <li>SPA TypeScript completa: React 19, Vite, TanStack Router/Query y bloques por funcionalidad. Registros/evidencias, IRSA, análisis/documentos, mapa, inteligencia, gerencia y administración con contratos Zod.</li>
           <li>Las cookies HttpOnly llevan sesión y alcance. Consultas, escrituras y descargas fijan X-MASCLI-Scope; cambiar proyecto descarta borradores y consulta el alcance nuevo.</li>
-          <li>El servidor ejecuta middleware de sesión/origen, tenancy y roles antes de las rutas protegidas; la entrega del shell y ciertas rutas tienen excepciones.</li>
+          <li>MFA obligatorio por defecto: el primer acceso permite inscribir el autenticador antes del proyecto. Escrituras con Origin/Referer verificado; sesión, tenancy y rol protegen los casos de uso.</li>
         </ul>
       </div>
 
@@ -5630,12 +5630,12 @@ OTHER DEALINGS IN THE FONT SOFTWARE.
       <div class="card">
         <div class="card-header">
           <div class="card-dot amber"></div>
-          <h3>ODD · implementado y pendiente</h3>
+          <h3>ODD · T1–T14 completos</h3>
         </div>
         <ul>
-          <li>Fuente: rama feat/typescript-migration-11-complete, revisión 90c6b0e. ODD y ADRs guían la migración; no son servicios del runtime.</li>
-          <li>T1–T11 completos: backend y todas las secciones web. T12 benchmarks, T13 migración de datos y T14 paridad integral/despliegue siguen pendientes. La validación científica IRSA no se declara completada.</li>
-          <li>Stack actual: pnpm, TS 7 por paquete / TS 6 para herramientas, ESLint/Prettier y dependency-cruiser. Drizzle, Turborepo y Biome se descartaron en las enmiendas. El legado Python es referencia, no dependencia de este runtime.</li>
+          <li>Fuente: consolidación TypeScript, revisión 1044876. ODD y ADRs guían el desarrollo; no son servicios del runtime.</li>
+          <li>T1–T14 completos: API y SPA, benchmarks, migrador ensayado con datos sintéticos y paridad E2E. La publicación de la demo gratuita y la validación científica externa IRSA son pasos separados.</li>
+          <li>Stack actual: pnpm, TS 7 por paquete / TS 6 para herramientas, ESLint/Prettier y dependency-cruiser. Drizzle, Turborepo y Biome se descartaron en las enmiendas. Python queda en reference/python como referencia congelada, no dependencia de este runtime.</li>
         </ul>
       </div>
     </div>

diff --git a/apps/e2e/tests/03-mfa-required.spec.ts b/apps/e2e/tests/03-mfa-required.spec.ts
@@ -48,9 +48,15 @@ test('mandatory MFA enrolls before dashboard and requires a code on the next log
     await page.getByLabel('Usuario').fill('mfa-admin');
     await page.getByLabel('Contraseña', { exact: true }).fill(secrets.adminPassword);
     await page.getByRole('button', { name: 'Ingresar', exact: true }).click();
+    await expect(page.getByLabel('Código de autenticación')).toBeVisible();
+    // Enrollment consumes the current counter; the accepted adjacent interval is distinct.
+    await page
+      .getByLabel('Código de autenticación')
+      .fill(totpCode(secret ?? '', Date.now() + 30_000));
+    await page.getByRole('button', { name: 'Ingresar', exact: true }).click();
     await expect(
       page.getByRole('heading', { level: 1, name: 'Dashboard ejecutivo' }),
-    ).not.toBeVisible();
+    ).toBeVisible();
   });
   await cleanup();
 });

diff --git a/docs/VERIFICACION.md b/docs/VERIFICACION.md
@@ -1,8 +1,8 @@
 # Verificación del mapa Archify
 
-Fecha: 2026-10-13. Fuente MASCLI TypeScript: `90c6b0e6b547eb837e70dcf01d9998ae86707d4c` (rama `feat/typescript-migration-11-complete`). Herramienta Archify: `c21c31ffb879668900c5487ea24993bf45d89b15`.
+Fecha: 2026-10-13. Fuente MASCLI TypeScript: `1044876089eb8f3f8beef3c5e5338c0183edd44c` (rama de consolidación sobre `main`). Herramienta Archify: `c21c31ffb879668900c5487ea24993bf45d89b15`.
 
[2 lines of base64/hex data omitted]
 
 | Comprobación | Resultado |
 | --- | --- |
@@ -13,11 +13,11 @@ HTML comprobado: `diagrams/arquitectura.html`, SHA-256 `4fce060774e13e1931c04748
 | Prueba adicional por HTTP local con Playwright/Chromium | Pasó en 1440×900, 1600×1000, 1920×1080, 2048×1320 y 390×844; SVG presente y sin desbordamiento horizontal de la página |
 | Interacciones adicionales | Abrir nodo HTTP/Hono mostró tres enlaces al código fijado; cambio de tema y apertura del menú de exportación comprobados |
 | JavaScript durante la prueba HTTP | Sin errores de página |
-| `corepack pnpm check` | Pasó: lint, límites de dependencia, tipos y tests (API: 383 pasaron / 6 omitidos; web: 98; kernel: 3) |
+| Verificación del runtime integrado | Web: 99 aprobadas; API SPA: 5 aprobadas; referencia Python: 40 aprobadas. Suite completa y CI se registran en [la consolidación](migration/main-consolidation.md). |
 | Inspección visual | Captura de escritorio en tema oscuro revisada; nodos y etiquetas legibles, sin solapamientos visibles |
 
 La captura de escritorio está en [la vista previa](diagrams/arquitectura.png). La prueba HTTP adicional comprueba carga e interacciones básicas; no ejecuta todos los criterios geométricos del `browser-check` de Archify ni prueba los formatos exportados. La comprobación completa de `finalize` queda pendiente en un entorno que permita abrir el archivo local. No se modificaron las políticas del navegador ni el transporte de Archify.
 
-Los recibos detallados de Archify se generan localmente y no se versionan porque contienen rutas de la máquina de ejecución. Consulta [la guía de regeneración](ARQUITECTURA.md) para volver a ejecutar las comprobaciones. La revisión de documentación se complementó con `pnpm check` sobre el workspace TypeScript. Las seis pruebas omitidas son de integración opcional con PostgreSQL real; no se configuró su conexión. Se arrancó una instancia temporal Hono/PGlite con cuentas y datos sintéticos para la verificación web; no se modificaron datos reales de usuarios.
+Los recibos detallados de Archify se generan localmente y no se versionan porque contienen rutas de la máquina de ejecución. Consulta [la guía de regeneración](ARQUITECTURA.md) para volver a ejecutar las comprobaciones. La CI de integración usa PostgreSQL real; el resultado final se registra en el informe de consolidación. Se arrancó una instancia temporal Hono/PGlite con cuentas y datos sintéticos para la verificación web; no se modificaron datos reales de usuarios.
 
 T11 completo se comprobó además contra una instancia local temporal de Hono/PGlite con datos sintéticos; consulta [el informe de verificación](migration/t11-verification.md).

diff --git a/docs/ARQUITECTURA.md b/docs/ARQUITECTURA.md
@@ -1,6 +1,6 @@
 # Arquitectura TypeScript de MASCLI · ODD
 
-El [mapa interactivo Archify](diagrams/arquitectura.html) documenta la versión TypeScript de MASCLI en `feat/typescript-migration-11-complete`, commit `90c6b0e6b547eb837e70dcf01d9998ae86707d4c`. Su marco de decisiones es el [ODD](../odd/tasks/typescript-hexagonal-migration.md) y las enmiendas de los [ADRs](adr/README.md). Las referencias del mapa apuntan al código de esa revisión. La [verificación de T11 completo](migration/t11-verification.md) registra los flujos comprobados y sus límites.
+El [mapa interactivo Archify](diagrams/arquitectura.html) documenta la versión TypeScript de MASCLI en la consolidación sobre `main`, commit `1044876089eb8f3f8beef3c5e5338c0183edd44c`. Su marco de decisiones es el [ODD](../odd/tasks/typescript-hexagonal-migration.md) y las enmiendas de los [ADRs](adr/README.md). Las referencias del mapa apuntan al código de esa revisión. La [verificación de T11 completo](migration/t11-verification.md) registra los flujos comprobados y sus límites.
 
 ## Recorrido y reglas de dependencia
 
@@ -39,11 +39,11 @@ La configuración IRSA y los snapshots pasan a SQL. Los adjuntos usan el adaptad
 | T1–T10 | Contratos, ADRs, workspace y contextos backend completados |
 | T11a/b | Shell, login/MFA, selección/cambio de proyecto, dashboard, registros y evidencias completados |
 | T11c–d | IRSA/validación, alertas/mapa, análisis/documentos, gerencia/inteligencia, administración/auditoría/metodología completados |
-| T12 | Benchmarks pendientes; Go/Rust condicionado a resultados |
-| T13 | Herramientas de migración SQLite → PostgreSQL pendientes |
-| T14 | Paridad E2E y preparación del despliegue pendientes |
+| T12 | Benchmarks sintéticos completados; Go/Rust no justificado por los resultados |
+| T13 | Migrador SQLite → PostgreSQL y ensayo sintético completados |
+| T14 | Paridad E2E y preparación del despliegue completadas |
 
-La implementación nueva es TypeScript; Python permanece como referencia de comportamiento y fixtures de paridad, sin ser dependencia de ejecución. El estado de tareas proviene del ODD; esta entrega completa T11 sin cerrar T12–T14. La validación científica externa del IRSA sigue siendo un proceso separado.
+La implementación nueva es TypeScript; Python permanece en `reference/python` como referencia de comportamiento y fixtures de paridad, sin ser dependencia de ejecución. El estado de tareas proviene del ODD; T1–T14 están completos; la publicación de la demo se comprueba por separado. La validación científica externa del IRSA sigue siendo un proceso separado.
 
 ## Fuente editable y regeneración
 
